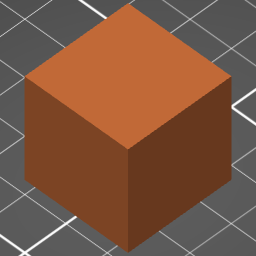
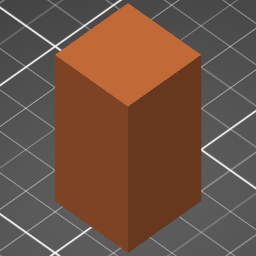
Capture the changed project and related artifacts
The directory has been recreated and the uncompressed archive regenerated.

diff --git a/readme.md b/readme.md
@@ -11,3 +11,9 @@ The process is as follows:
 - Save the project as `box.3mf`
 - Run `unzip box.3mf -d box` to extract the 3MF OPC ZIP into a directory `box`
 - Run `zip -r box -0 box` to create a new archive, `box.zip` with no compression
+- Turn off the lock next to the box properties Scale and Size
+- Scale the box up twice the size by setting `50` for its Size on the Z axis
+- Save the project again under the same name
+- Delete the `box` directory to not clash with the `unzip` command
+- Run `unzip box.3mf -d box` again to generate a new extraction of the project
+- Run `zip -r box -0 box` to update the archive with no compression
